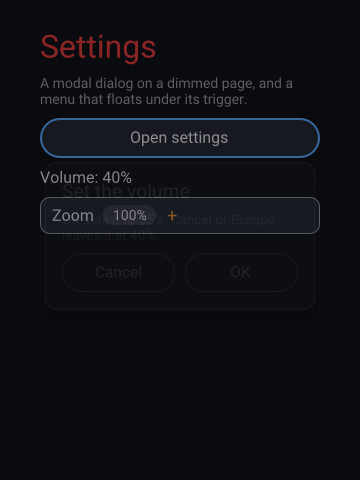
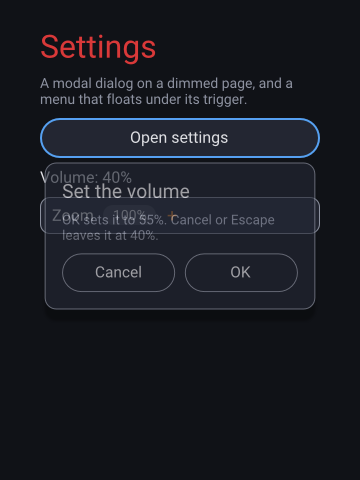
dialog: the group eases in from 88% and the dim fades with it, so the page never double-exposes through the panel

diff --git a/native/solid/app/Dialog.tsx b/native/solid/app/Dialog.tsx
@@ -199,10 +199,13 @@ const OUT = effect(0.2); // ... and its blur and the dim: a luminance field goes
 // the group: the panel and the menu fade and grow as one subtree (`FIELDS.ALPHA`/`SCALE`). The scale is a percentage of
 // the element's box, not a fraction: a track's settle rule is 0.5 of its own unit, so 0.96..1 would settle on its first
 // sample — 96..100 settles at 99.5, a 0.5% snap nobody sees. The entry may carry a little velocity (spatial), the exit
-// must not overshoot; the opacity is an effect, as every luminance field here.
+// must not overshoot; the opacity is an effect, as every luminance field here. It fades from ENTRY_FADE, not from 0: a
+// panel at half opacity over the page's own text double-exposes, and the dim behind is doing the darkening — a nearly
+// opaque arrival reads as a fade without the ghost of the page showing through the panel's own glyphs.
 const GROW = spatial(0.22, 0.1);
 const SHRINK = spatial(0.2, 0);
 const ENTRY_SCALE = 96; // percent: the panel and the menu start 4% small
+const ENTRY_FADE = 225; // of 255: the group starts at 88% opacity: a fade that does not double-expose the page under the panel
 // where each arrival starts and where each exit goes, in px from the settled offset y: the menu 10px lower (under its
 // trigger) on the way in and 10px lower on the way out, the panel 14px higher in and 14px lower out, and both shadows
 // from 0 in and to 0 out
@@ -263,13 +266,13 @@ function step(o: Overlay, open: boolean, dt: number) {
   if (!before) {
     o.y = track(o.rest + o.entry, SLIDE, o.clock);
     o.shade = track(0, BLUR, o.clock);
-    if (o.dim >= 0) o.alpha = track(o.dim, OUT, o.clock);
+    if (o.dim >= 0) o.alpha = track(0, OUT, o.clock); // the dim itself fades in: the page darkens under the panel
     o.y.retarget(o.clock, y, SLIDE);
     if (o.blur >= 0) o.shade.retarget(o.clock, blur, BLUR);
     if (o.dim >= 0) o.alpha.retarget(o.clock, dim, OUT);
-    // a group arrives from nothing: fully transparent and 4% small, on the same frame as the offset it starts from
+    // a group arrives nearly opaque and 4% small, on the same frame as the offset it starts from
     if (o.group) {
-      o.fade = track(0, OUT, o.clock);
+      o.fade = track(ENTRY_FADE, OUT, o.clock);
       o.scale = track(ENTRY_SCALE, GROW, o.clock);
       o.fade.retarget(o.clock, 255, OUT);
       o.scale.retarget(o.clock, 100, GROW);

diff --git a/native/solid/dialog.test.ts b/native/solid/dialog.test.ts
@@ -452,7 +452,7 @@ const between = (v: number[], a: number[], b: number[], slack = 2) =>
       `edges ${midEdges.join("..")} inside ${restEdges.join("..")}; the box ${entry.map((v) => v.toFixed(1)).join(",")} ` +
       `-> ${mid.map((v) => v.toFixed(1)).join(",")} -> ${rest.map((v) => v.toFixed(1)).join(",")}`,
   );
-  check("the panel is laid out on the frame it opens on, at alpha 0", entrySpot, page);
+  check("the panel is laid out on the frame it opens on, at 78% of the entry fade", between(entrySpot, page, restSpot, 1), true);
   check(
     "the scale is not a layout: x, width and height are the style's at the entry, mid-entry and rest",
     [entry, mid, rest].map((b) => [b[0], b[2], b[3]].map((v) => Math.round(v!))).flat(),
@@ -460,7 +460,8 @@ const between = (v: number[], a: number[], b: number[], slack = 2) =>
   );
   check("only the float's offset moves the box (it drops in from 14px above)", entry[1]! < mid[1]! && mid[1]! < rest[1]!, true);
   check("the settled spot is the panel's own surface", restSpot, [36, 40, 52]);
-  check("mid-entry the spot is a blend of the dimmed page and the panel", between(midSpot, page, restSpot), true);
+  check("mid-entry the spot is still short of the settled panel", between(midSpot, page, restSpot, 0), true);
+  check("... and it is close to it: the fade is 88%, not 0", Math.max(...midSpot.map((v, i) => Math.abs(v - restSpot[i]!))) <= 4, true);
   check("the title's ink at rest is the text's colour", lum(restInk) > 200, true);
   check("mid-entry the ink is a blend, not the settled text", between(midInk, page, restInk), true);
   check("mid-entry the panel's left edge is inside its settled one", midEdges[0]! - restEdges[0]! >= 2, true);

diff --git a/native/README.md b/native/README.md
@@ -207,7 +207,7 @@ subtree is composited with the same alpha and scale — the Dialog's menu is exa
 cut) and its shadow, fill, text and border all sit at the same opacity. A group whose range never meets its end (only a
 hand-made command array could) is composited as it is at the end of the loop.
 
-The Dialog page is the first user. The **panel** and the **menu** arrive as a group: `ALPHA` 0 → 255 on `effect(0.2)`
+The Dialog page is the first user. The **panel** and the **menu** arrive as a group: `ALPHA` 225 → 255 on `effect(0.2)`
 (a luminance field is clamped, as the dim is) and `SCALE` 96 → 100 on `spatial(0.22, 0.1)` — percent, not a fraction,
 because a track's settle rule is 0.5 of its own unit, so 0.96..1 would be "settled" on its first sample; 96..100 snaps at
 99.5, a 0.5% jump nobody sees. The exit runs both back (0, 96) on `effect(0.2)` and `spatial(0.2, 0)` beside the offsets
@@ -278,7 +278,7 @@ field may not. The pair that reads best in a frame is the offset with the blur a
 trigger (it starts 10px lower, over the 20px it overlaps) while its shadow appears under it, so by the third frame
 (2/60s in) the menu is 7.4px low with a shadow at a quarter of its blur — legible as "arriving" rather than as a jump;
 the blur alone would look like a fade and the offset alone like a slide with no depth. The group is the third layer of
-the same arrival and the one that reaches the panel's text: alpha 0 → 255 and scale 96% → 100% (`dialog-entry-mid` is
+the same arrival and the one that reaches the panel's text: alpha 225 → 255 and scale 96% → 100% (`dialog-entry-mid` is
 three frames in: 119 of 255 and 97.8%), so the panel is translucent and a shade small while it drops, and its own text
 fades with its fill instead of standing at full ink over a ghost of a box.
 

diff --git a/native/docs/map.md b/native/docs/map.md
@@ -536,7 +536,7 @@ Parley text and per-platform shells — not our stack, and none of its code is p
    fifth is ungrouped), 16 a frame, eight nested scissors, one backdrop cut a frame — a cut inside a group settles the
    open groups into pass 1 and makes them again after it (the menu's glass is exactly that), and a shadow is drawn
    inside its element's group, so it fades with the panel. The Dialog's panel and menu arrive and leave as a group
-   beside their offsets (alpha 0 → 255 and 96% → 100% on `effect(0.2)` and `spatial(0.22, 0.1)`; the backdrop keeps its
+   beside their offsets (alpha 225 → 255 and 96% → 100% on `effect(0.2)` and `spatial(0.22, 0.1)`; the backdrop keeps its
    own dim through field 17). Measured (`solid/dialog.test.ts`, `dialog-entry-mid` three frames in): alpha 119 of 255,
    scale 97.8%, the panel's box `40, 156.1, 280x152.3` against `40, 163.9, 280x152.3` at rest (x, width and height the
    literal's on every frame), a flat spot `24,27,36` between the dimmed page `7,8,10` and the settled panel `36,40,52`,
